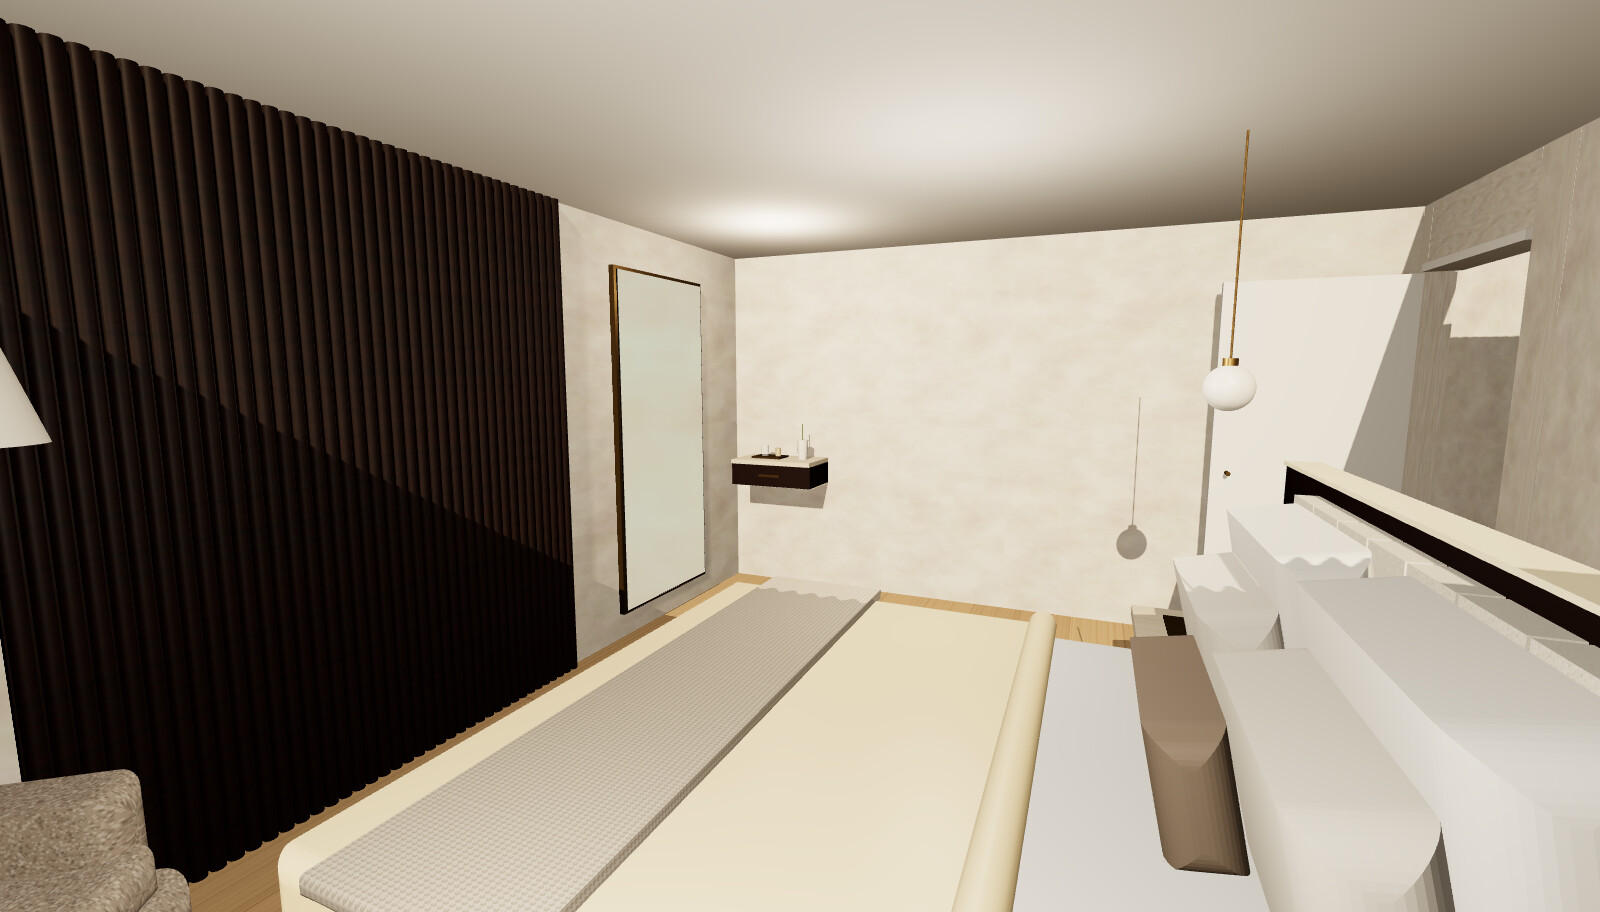
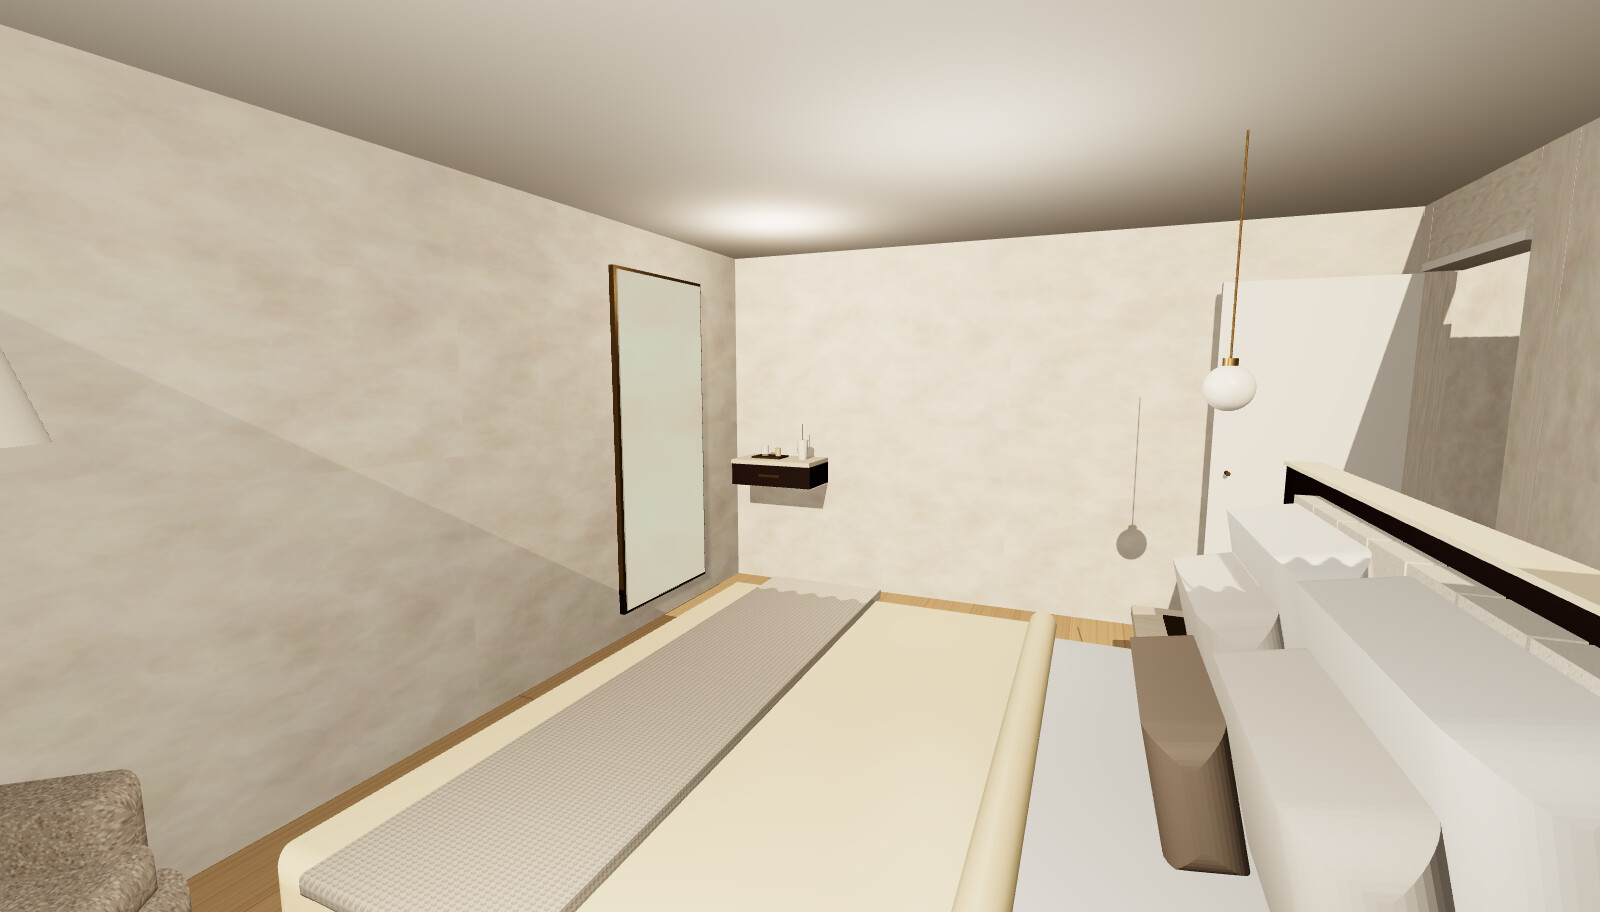
Remove fluted panelling; west wall is plain plaster
Claude-Session: https://claude.ai/code/session_01P4LkCESWoGV8P5QgBbWSmy

Changed region(s): [[0.0, 0.0, 0.375, 0.9825]]

diff --git a/renders/bedroom-1-3d.html b/renders/bedroom-1-3d.html
@@ -143,9 +143,7 @@ cyl(3.05,0.72,3.9,0.004,0.004,0.1,mat('#5d7a4c',0.8),6); pillow(3.05,0.78,3.9,0.
 // north nightstand: small clock + tray
 box(2.8,3.08,0.56,0.57,1.5,1.75,brass); cyl(3.0,0.62,1.7,0.05,0.05,0.04,brass).rotation.z=Math.PI/2;
 
-// ---------- Feature wall (west): fluted walnut panelling centred on bed z = 2.85, no TV ----------
-for(let i=0;i<40;i++){ const z0=1.85+i*0.05; const fl=cyl(0.025,CH/2,z0+0.025,0.022,0.022,CH,walnut,12); }
-box(0,0.02,0,CH,1.85,3.85,walnut);
+// ---------- West wall: plain limewash plaster (no panelling, no TV) ----------
 // (no TV, no TV unit)
 
 // ---------- Lounge nook (SW corner) ----------
